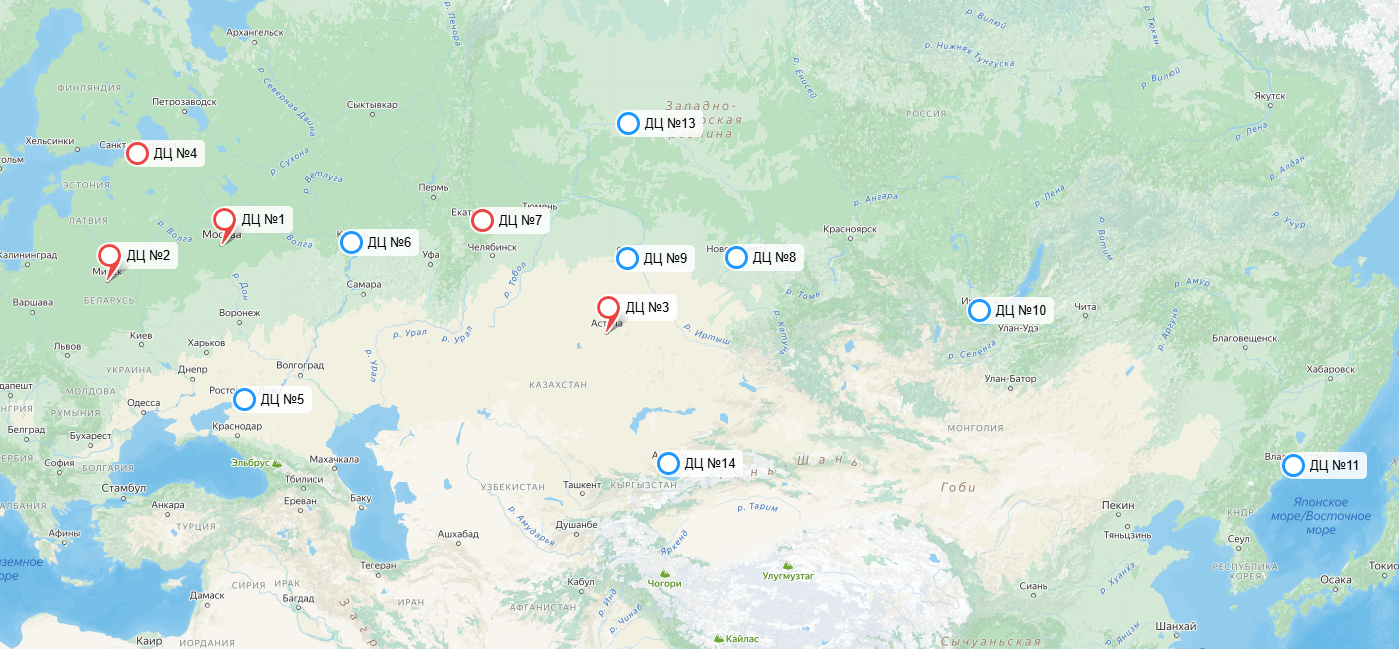
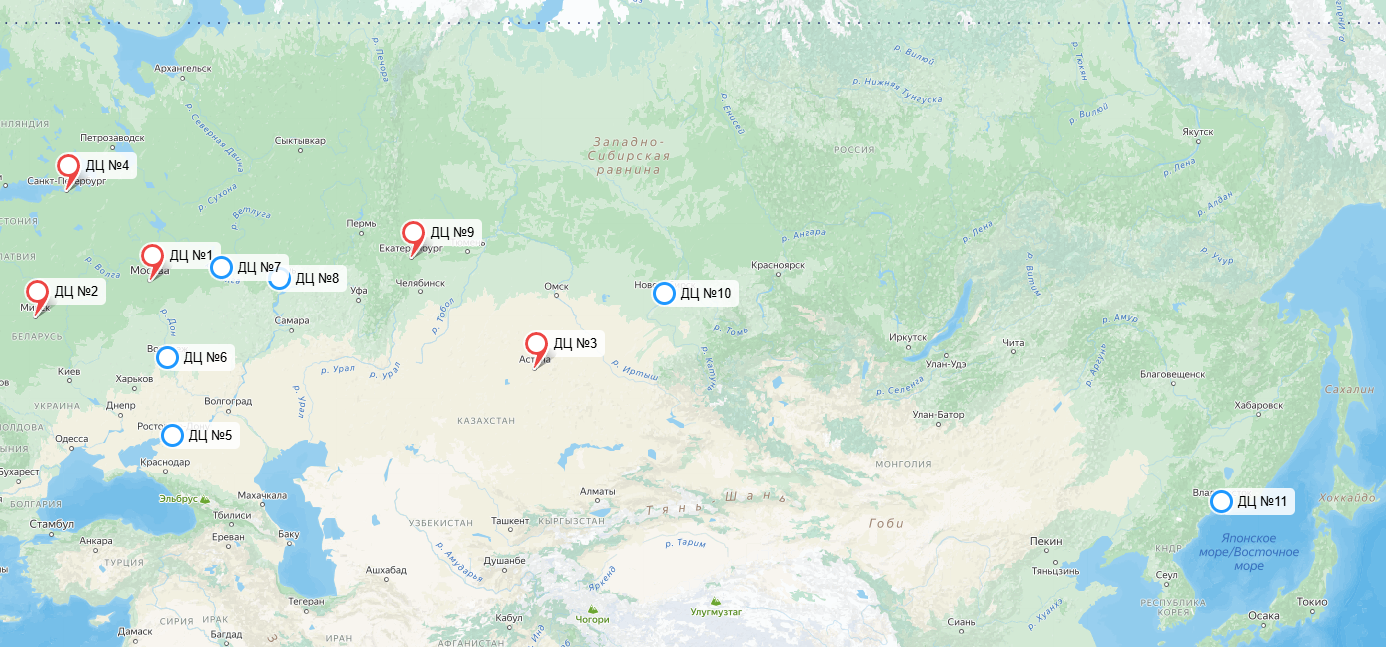
fix: 2 and 3 task

diff --git a/README.md b/README.md
@@ -64,7 +64,9 @@
 
 Всего на кинопоиске к середине 2020г. было **7770** фильмов[^6]. Предположим, что к текущему году количество фильмов возросло и примем общее число фильмов и сериалов на кинопоиске равным 8000.
 
-Средний размер одного файла в разрешении **4K** составляет **35 ГБ** (20 ГБ одна серия сериала и 50 ГБ двухчасовой фильм => (20 ГБ + 50 ГБ)/2 = 35ГБ). Это даёт:
+Средняя продолжительность фильма в последние годы возросла до 120-130 минут, согласно анализу данных базы IMDB[^7]. Также, одна серия одного сериала в среднем занимает 40 минут. 
+
+Таким образом, средний размер одного файла в разрешении **4K** составляет **35 ГБ** (20 ГБ одна 40-минутная серия сериала и 50 ГБ двухчасовой фильм[^8] => (20 ГБ + 50 ГБ)/2 = 35ГБ). Это даёт:
 
 - **Общий объём 4K контента:**
   - `8000 × 35 ГБ = 280000 ГБ = 280 ТБ = 0,28 ПБ`
@@ -79,14 +81,15 @@
 Итоговый объем видеохранилища: **0,41 ПБ**
 
 Далее высчитаем объем пользовательских данных
-К пользовательской информации относятся имя, возраст, описание, пол, страна и город проживания, ссылки на соцсети и интересы. Данная текстовая информация занимает до нескольких килобайт. Кроме того пользователь мжет поставить аватарку на свой профиль. На странице редактирования профиля[^7] можно увидеть информацию о том, что аватар пользователя не должен превышать 2 МБ. Примем эту верхнюю оценку.
+К пользовательской информации относятся имя, возраст, описание, пол, страна и город проживания, ссылки на соцсети и интересы. Данная текстовая информация занимает до нескольких килобайт. Кроме того пользователь мжет поставить аватарку на свой профиль. На странице редактирования профиля[^9] можно увидеть информацию о том, что аватар пользователя не должен превышать 2 МБ. Примем эту верхнюю оценку.
+С помощью популярного формата WebP фото сжимается на 25-30%[^10], поэтому при расчете общего объема пользовательских данных допольнительно умножим его на 0,3.
 - **Средний объём на пользователя:** ~ **2 МБ**
 - **Общий объём хранения данных пользователей:**
-  - `14 000 000 × 2 МБ = 28 000 000 МБ = 28 ТБ = 0,028 ПБ`
+  - `14 000 000 × 2 МБ × 0,3  = 8 400 000 МБ = 8,4 ТБ = 0,0084 ПБ`
 
 Хранение рецензий и оценок
 - **Средний вес одной рецензии:** **1 КБ** (1000 символов ASCII)
-- **Общее количество рецензий:** **834 641**[^8]
+- **Общее количество рецензий:** **834 641**[^11]
 - **Общий объем рецензий:**
   - `1 КБ × 834 641 = 0,8 ГБ`
 - **Запас хранения + оценки:** **1 ГБ**
@@ -95,9 +98,9 @@
 | Компонент | Объём |
 |-----------|-------|
 | Видеоконтент | **0,41 ПБ** |
-| Данные пользователей | **0,028 ПБ** |
+| Данные пользователей | **0,0084 ПБ** |
 | Рецензии и оценки | **1 ГБ** |
-| **ИТОГО** | **~0,44 ПБ** |
+| **ИТОГО** | **~0,42 ПБ** |
 
 ### Действия пользователя в день
 
@@ -105,20 +108,24 @@
 
 - **Авторизация** — в среднем **1 раз в день** (просмотр контента требует авторизации).
 - **Покупка подписки** — обычно пользователь покупает подписку ежемесячно, но так же есть возможно офромить ее на 3, 6 и 12 месяцев. Примем за среднее - 3 месяца, поэтому 1/90 = значит **0,01 раз в день**.
-- **Просмотр контента** — в 2024 году подписчики в среднем смотрят **34,6 тайтлов** и **11 спортивных трансляций** в год[^9]. Примем длительность спортивного события равной средней длительности одного тайтла - 2 часа. Тогда всего за год пользователь смотрит 45,6 * 2 = 91,2 часов. Это равняется 91,2*60/365 = **15 минут в день**.
+- **Просмотр контента** — в 2024 году подписчики в среднем смотрят **34,6 тайтлов** и **11 спортивных трансляций** в год[^12]. Примем длительность спортивного события равной средней длительности одного тайтла - 2 часа. Тогда всего за год пользователь смотрит 45,6 * 2 = 91,2 часов. Это равняется 91,2*60/365 = **15 минут в день**.
 - **Оценка контента** — в 2023 году пользователи оставили **180 млн оценок**, это **6 млн оценок в день**, или **~0,27 оценок на пользователя в день**.
 - **Оставление рецензий** — на платформе **834 641 рецензий**, ежедневно публикуются **~400 новых**, значит **~0,000018 рецензий на пользователя в день**.
-- **Поиск контента** — **≈3-4 раза в день**.
+- **Поиск контента** — **4 раза в день**[^13].
+- **Рекомендации** — рекомендательная система строится на основе просмотра интересующего контента и оставлении оценки, а значит перестраивается примерно 0,27 р/день + 15 мин/день **≈ 1 раз в день**.
+- **Добавление в избранное** - по статистике лишь каждый 10-ый фильм пользователь добавляет в избранное, а значит 4*0,1 **~ 0,4 раза в день**
 
 ### Таблица частоты действий
 | Действие | Частота в день |
 |----------------------|------------------|
 | Авторизация | 1 |
 | Покупка подписки | 0,01 |
-| Поиск контента | 3-4 |
+| Поиск контента | 4 |
 | Просмотр видео | 15 минут |
-| Оценка видео | 0,27 |
+| Оценка контента | 0,27 |
 | Оставление рецензии | 0,000018 |
+| Рекомендации | 1 |
+| Добавление в избранное | 0,4 |
 
 ## Технические метрики
 
@@ -127,45 +134,58 @@
 | Действие | Формула | RPS |
 |----------------------|----------------------------|------|
 | Авторизация | `1 × 2 600 000 / 86400` | **30** |
-| Поиск контента | `4 × 2 600 000 / 86400` | **120** |
-| Оставление рецензии | `0,000018 × 2 600 000 / 86400` | **0,0005** |
-| Просмотр видео | `(15 × 60) × 2 600 000 / 86400` | **27083** |
 | Покупка подписки | `0,01 × 2 600 000 / 86400` | **0,3** |
+| Поиск контента | `4 × 2 600 000 / 86400` | **120** |
+| Просмотр видео | `(15 × 60) × 2 600 000 / (86400 * 10)` | **2708*** |
 | Оценка контента | `0,27 × 2 600 000 / 86400` | **8,1** |
+| Оставление рецензии | `0,000018 × 2 600 000 / 86400` | **0,0005** |
+| Рекомендации | `1 × 2 600 000 / 86400` | **30** |
+| Добавление в избранное | `0,4 × 2 600 000 / 86400` | **12** |
+
+ - `*` - деление на 10 из-за буфферизации контента - получение данных пачками по 10 секунд. 
 
 ### Сетевой трафик
 
 Потребление трафика зависит от качества видео и активности пользователей. Большинство (90%) смотрит в разрешении до 1080p (3 Мбит/с), 10% — в 4K (20 Мбит/с). В среднем каждый пользователь смотрит 15 минут видео в день.
 
 ### Средний дневной трафик:
-- **10% аудитории (4K):** `(3 900 000 × 60) × 20 = 4 680 000 000` Мбит (~0,59 ПБ)
-- **90% аудитории (≤1080p):** `(35 100 000 × 60) × 3 = 6 318 000 000` Мбит (~0,79 ПБ)
 
+| Категория пользователей | Формула | Трафик в день |
+|------------------------|---------------------|---------------------|
+| **10% аудитории (4K)** | `(2 600 000 × 0.1 × 15 × 60 × 20) / 8` | **0,59 ПБ** |
+| **90% аудитории (≤1080p)** | `(2 600 000 × 0.9 × 15 × 60 × 3) / 8` | **0,79 ПБ** |
 
 В вечерние часы и выходные нагрузка увеличивается примерно в 3 раза.
 
-### Сетевой трафик (10% аудитории)
+---
 
-| Действие               | Обычный (58,5 Гбит/с) | Пиковый (176 Гбит/с) |
-|------------------------|---------------------|---------------------|
-| Просмотр видео        | 45 Гбит/с           | 135 Гбит/с         |
-| Регистрация/авторизация | 3 Гбит/с            | 10 Гбит/с          |
-| Поиск фильма          | 8 Гбит/с            | 24 Гбит/с          |
-| Оставление комментария | 5 Гбит/с            | 15 Гбит/с          |
-| Подписка              | 1 Гбит/с            | 3 Гбит/с           |
-| Оценка видео          | 1 Гбит/с            | 3 Гбит/с           |
+### Сетевой трафик (10% аудитории, 4K)
 
+| Действие               | Формула | Обычный (58,5 Гбит/с) | Пиковый (176 Гбит/с) |
+|------------------------|---------------------------------|---------------------|---------------------|
+| Просмотр видео        | `((2 600 000 × 0.1 × 15 × 60 × 20) / 8) / 86400` | 45 Гбит/с  | 135 Гбит/с |
+| Регистрация/авторизация | `30 × 0.5 МБ × 8 / 10⁶` | 3 Гбит/с  | 10 Гбит/с  |
+| Поиск фильма          | `120 × 1 МБ × 8 / 10⁶`  | 8 Гбит/с  | 24 Гбит/с  |
+| Оставление комментария | `8 × 0.1 МБ × 8 / 10⁶`  | 5 Гбит/с  | 15 Гбит/с  |
+| Подписка              | `0.3 × 5 МБ × 8 / 10⁶`  | 1 Гбит/с  | 3 Гбит/с   |
+| Оценка видео          | `8.1 × 0.1 МБ × 8 / 10⁶` | 1 Гбит/с  | 3 Гбит/с   |
+| Рекомендации          | `30 × 0.5 МБ × 8 / 10⁶` | 3 Гбит/с  | 10 Гбит/с  |
+| Добавление в избранное | `12 × 0.1 МБ × 8 / 10⁶` | 1 Гбит/с  | 3 Гбит/с   |
 
-### Сетевой трафик (90% аудитории)
+---
 
-| Действие               | Обычный (73,5 Гбит/с) | Пиковый (223,5 Гбит/с) |
-|------------------------|---------------------|---------------------|
-| Просмотр видео        | 60 Гбит/с           | 180 Гбит/с         |
-| Регистрация/авторизация | 3 Гбит/с            | 10 Гбит/с          |
-| Поиск фильма          | 8 Гбит/с            | 24 Гбит/с          |
-| Оставление комментария | 5 Гбит/с            | 15 Гбит/с          |
-| Подписка              | 1 Гбит/с            | 3 Гбит/с           |
-| Оценка видео          | 1 Гбит/с            | 3 Гбит/с           |
+### Сетевой трафик (90% аудитории, ≤1080p)
+
+| Действие               | Формула | Обычный (73,5 Гбит/с) | Пиковый (223,5 Гбит/с) |
+|------------------------|---------------------------------|---------------------|---------------------|
+| Просмотр видео        | `((2 600 000 × 0.9 × 15 × 60 × 3) / 8) / 86400` | 60 Гбит/с  | 180 Гбит/с |
+| Регистрация/авторизация | `30 × 0.5 МБ × 8 / 10⁶` | 3 Гбит/с  | 10 Гбит/с  |
+| Поиск фильма          | `120 × 1 МБ × 8 / 10⁶`  | 8 Гбит/с  | 24 Гбит/с  |
+| Оставление комментария | `8 × 0.1 МБ × 8 / 10⁶`  | 5 Гбит/с  | 15 Гбит/с  |
+| Подписка              | `0.3 × 5 МБ × 8 / 10⁶`  | 1 Гбит/с  | 3 Гбит/с   |
+| Оценка видео          | `8.1 × 0.1 МБ × 8 / 10⁶` | 1 Гбит/с  | 3 Гбит/с   |
+| Рекомендации          | `30 × 0.5 МБ × 8 / 10⁶` | 3 Гбит/с  | 10 Гбит/с  |
+| Добавление в избранное | `12 × 0.1 МБ × 8 / 10⁶` | 1 Гбит/с  | 3 Гбит/с   |
 
 # 3. Глобальная балансировка нагрузки
 
@@ -185,22 +205,22 @@
 
 ## Выбор расположения дата-центров
 
+При размещении дата-центров будем ориентироваться на плотность населения России
+
+![Плотность населения России](assets/population.png)
+
 Ключевые дата-центры размещены в столицах: **Москва, Астана, Минск**, так как там сосредоточена значительная часть целевой аудитории. 
 
-Учитывая большую территорию России разместим 10 дополнительных дата центров для работы на ее территории в крупных городах. После географического анализа были выбраны следующие:
+Учитывая большую территорию России разместим 8 дополнительных дата центров для работы на ее территории в крупных городах. После географического анализа были выбраны следующие:
 
 - **Санкт-Петербург**
 - **Ростов-на-Дону**
+- **Воронеж**
+- **Нижний Новгород**
 - **Казань**
-- **Екатеринбург**
-- **Новосибирск**
-- **Омск** 
-- **Иркутск** 
+- **Екатеринбург** 
+- **Новосибирск** 
 - **Владивосток** 
-- **Петропавловск-Камчатский** 
-- **Сургут** 
-
-Дополнительно, для Казахстана добавлен дата-центр в **Алматы**, чтобы улучшить покрытие в этом регионе, а также возможного (в будущем) выхода на рынок стран Средней Азии.
 
 ![Распределение дата центров](assets/datacentres.png)
 
@@ -216,11 +236,6 @@
 - **Минск** (Беларусь)
 - **Астана** (Казахстан)
 - **Екатеринбург** (Россия)
-
-**Связи между ДЦ для проксирования (можно отметить стрелками):**
-- **Ростов-на-Дону → Минск**
-- **Сургут → Санкт-Петербург**
-- **Петропавловск-Камчатский → Екатеринбург**
 
 Если пользователь пытается авторизоваться в городе, где нет центра обработки таких запросов, его запрос будет проксироваться в ближайший менее загруженный ДЦ из списка выше.
 
@@ -243,11 +258,7 @@
 
 ## DNS-балансировка
 
-Использование **Latency-based DNS (GeoDNS)** позволит автоматически направлять запросы пользователей к ближайшему дата-центру с минимальным временем отклика (RTT). Размещение ДЦ выбрано с учетом этой схемы.
-
-## Регулировка трафика между дата-центрами
-
-В случае перегрузки ближайшего ДЦ трафик перераспределяется по принципу **latency-based balancing**. Например, если пользователь из **Улан-Удэ** отправляет запрос в **Иркутск**, но тот перегружен, запрос будет перенаправлен на ДЦ с минимальной задержкой, например, в **Омск**. В критических случаях этот процесс может продолжаться в несколько итераций, обеспечивая оптимальную маршрутизацию трафика.
+Использование **Anycast DNS** позволит направлять запросы пользователей в ближайший дата-центр с минимальной задержкой (RTT), основываясь на маршрутизации сети. Это обеспечит равномерное распределение нагрузки и быструю работу сервиса.
 
 ## Список источников
 
@@ -263,8 +274,16 @@
 
 [^6]: [Информация о подписке Яндекс.Плюс](https://www.kinopoisk.ru/media/news/4002246/)
 
-[^7]: [Страница редактирования профиля](https://www.kinopoisk.ru/mykp/edit_main/)
+[^7]: [Средняя продолжительность фильмов](https://www.vedomosti.ru/gorod/leisuretime/articles/barbi-oppengeimer-i-avatar-pochemu-filmi-stali-takimi-dlinnimi)
 
-[^8]: [Рецензии на кинопоиске](https://www.kinopoisk.ru/reviews/)
+[^8]: [Вес видео в формате 4к](https://webos-forums.ru/post90619.html)
 
-[^9]: [Итоги 2024 года](https://habr.com/ru/news/868442/)
+[^9]: [Страница редактирования профиля](https://www.kinopoisk.ru/mykp/edit_main/)
+
+[^10]: [Формат WebP](https://thecode.media/webp/)
+
+[^11]: [Рецензии на кинопоиске](https://www.kinopoisk.ru/reviews/)
+
+[^12]: [Итоги 2024 года](https://habr.com/ru/news/868442/)
+
+[^13]: [Исследование страницы персоны Кинопоиска](https://medium.com/@IngMaeSing/kinopoisk-person-page-research-4f33e5b4d318)
